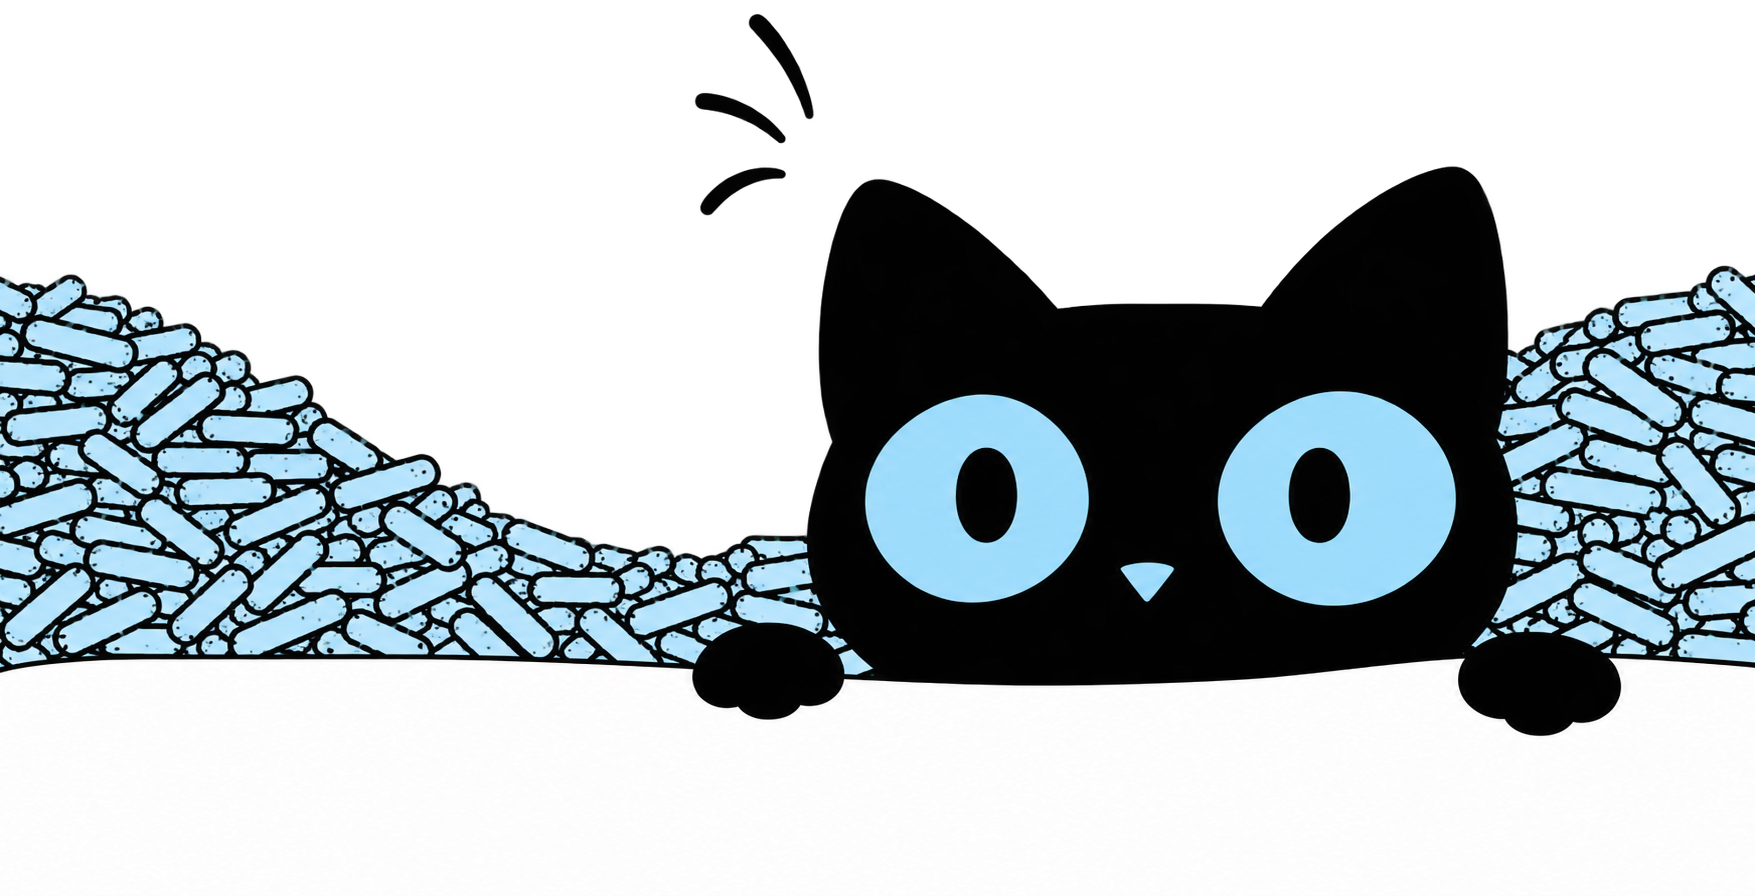
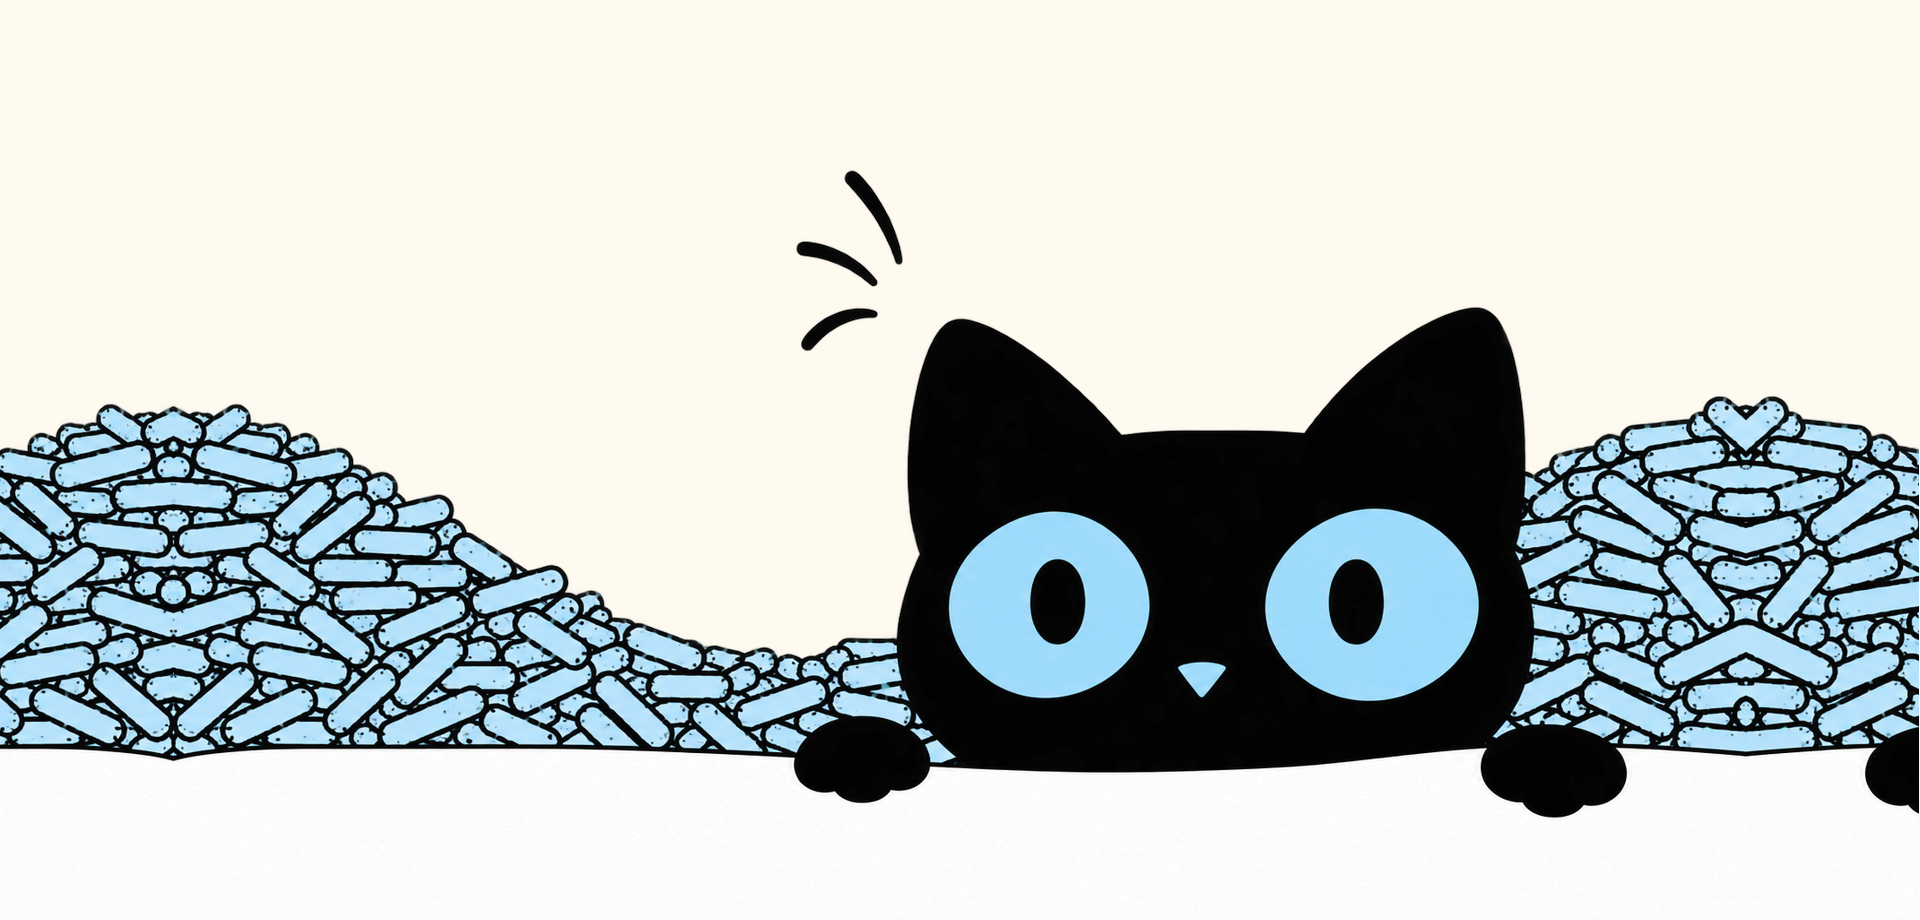
feat: add interactive hero scroll experience, background components, and product image assets

diff --git a/src/components/HeroScrollExperience.tsx b/src/components/HeroScrollExperience.tsx
@@ -562,15 +562,15 @@ export default function HeroScrollExperience() {
       </div>
 
       {/* Layer 4: Global Header / Navbar */}
-      <nav className="relative z-50 px-4 sm:px-8 md:px-12 flex items-center justify-between min-h-[86px] sm:min-h-[100px] md:min-h-[118px] pointer-events-auto shrink-0 pt-2 sm:pt-3">
-        {/* Left Aligned Big Logo */}
+      <nav className="relative z-50 px-4 sm:px-8 md:px-12 flex items-center justify-between min-h-[64px] sm:min-h-[72px] md:min-h-[80px] pointer-events-auto shrink-0 pt-2 sm:pt-3">
+        {/* Left Aligned Clean Logo */}
         <Link href="/" className="flex items-center cursor-pointer group shrink-0">
           <Image
             src="/meowganics_logo_transparent.png"
             alt="Meow Ganics Logo"
             width={1776}
             height={725}
-            className="w-[200px] xs:w-[215px] sm:w-[240px] md:w-[300px] lg:w-[340px] xl:w-[370px] h-auto max-h-[86px] sm:max-h-[96px] md:max-h-[120px] lg:max-h-[136px] xl:max-h-[148px] object-contain object-left transition-transform duration-300 group-hover:scale-105 origin-left drop-shadow-[0_3px_8px_rgba(0,0,0,0.1)]"
+            className="w-[125px] xs:w-[140px] sm:w-[155px] md:w-[175px] lg:w-[190px] h-auto max-h-[42px] sm:max-h-[48px] md:max-h-[52px] object-contain object-left transition-transform duration-300 group-hover:scale-105 origin-left drop-shadow-[0_2px_4px_rgba(0,0,0,0.08)]"
             priority
           />
         </Link>
@@ -647,8 +647,8 @@ export default function HeroScrollExperience() {
             y:
               introPhase === "hero"
                 ? isMobile
-                  ? "30vh"
-                  : "22vh"
+                  ? "26vh"
+                  : "18vh"
                 : "0vh",
             rotate:
               introPhase === "hero"
@@ -659,8 +659,8 @@ export default function HeroScrollExperience() {
             scale:
               introPhase === "hero"
                 ? isMobile
-                  ? 0.70
-                  : 0.90
+                  ? 0.76
+                  : 0.95
                 : introPhase === "spotlight" || introPhase === "stabilizing"
                 ? isMobile
                   ? 1.10
@@ -694,7 +694,7 @@ export default function HeroScrollExperience() {
               ease: "easeOut",
             },
           }}
-          className="relative w-[44vw] sm:w-[36vw] md:w-[26vw] lg:w-[22vw] max-w-[190px] sm:max-w-[270px] md:max-w-[300px] lg:max-w-[330px] aspect-[926/1004] origin-center flex items-center justify-center pointer-events-auto"
+          className="relative w-[38vw] sm:w-[30vw] md:w-[22vw] lg:w-[19vw] max-w-[160px] sm:max-w-[220px] md:max-w-[250px] lg:max-w-[280px] aspect-[1086/1448] origin-center flex items-center justify-center pointer-events-auto"
         >
           {/* ── Studio Ambient Spotlight Bloom behind the Product Bag ── */}
           <motion.div

diff --git a/src/components/HeroBackground.tsx b/src/components/HeroBackground.tsx
@@ -38,11 +38,11 @@ export default function HeroBackground() {
       </div>
 
       {/* ── Seamless White Floor Base (Fills any bottom space) ── */}
-      <div className="absolute bottom-0 inset-x-0 h-[6vh] sm:h-[8vh] md:h-[10vh] bg-white z-0" />
+      <div className="absolute bottom-0 inset-x-0 h-[4vh] sm:h-[6vh] md:h-[8vh] bg-white z-0" />
 
       {/* ── Complete Hero Artwork (Blue Litter Hills, Peeking Cat & White Floor) ── */}
-      <div className="absolute -bottom-[8vh] sm:-bottom-[10vh] md:-bottom-[12vh] inset-x-0 w-full flex justify-center items-end pointer-events-none z-10 overflow-hidden">
-        <div className="relative w-full aspect-[1755/896] min-h-[260px] sm:min-h-[320px] md:min-h-[380px] max-h-[85vh] sm:max-h-[88vh] md:max-h-[92vh]">
+      <div className="absolute bottom-0 inset-x-0 w-full flex justify-center items-end pointer-events-none z-10 overflow-hidden">
+        <div className="relative w-full aspect-[1920/920] min-h-[260px] sm:min-h-[300px] md:min-h-[340px] max-h-[66vh] sm:max-h-[70vh] md:max-h-[74vh]">
           <Image
             src="/hero-cat-hills.png"
             alt="Meow Ganics Litter Hills & Peeking Cat"
